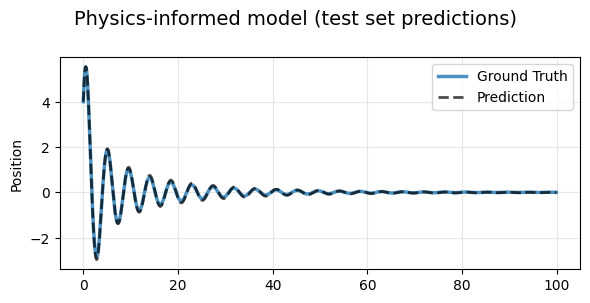
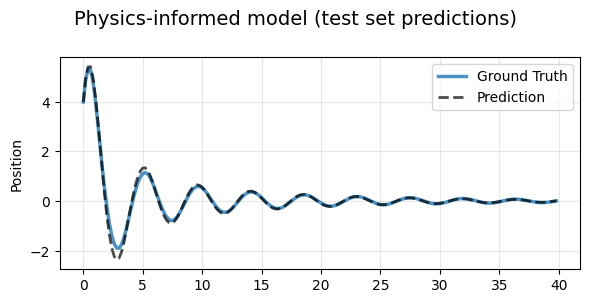
update figures and readme

diff --git a/utils.py b/utils.py
@@ -65,7 +65,7 @@ def generate_dissipative_pendulum_data(t_span=(0, 100), dt=0.1, spring_const=5.0
     return time, positions, velocities, accelerations
 
 
-def split_and_plot_dataset(data, train_frac=0.4, val_frac=None, show_plot=True):
+def split_and_plot_dataset(data, train_frac=0.4, val_frac=None, show_plot=True, filename=None):
     """
     Split t,x,v,a into train/val and plot the entire dataset with highlighted regions.
     
@@ -124,6 +124,8 @@ def split_and_plot_dataset(data, train_frac=0.4, val_frac=None, show_plot=True):
     axes.legend(handles=legend_handles, loc='upper right')
     axes.set_title('Training + validation data')
     plt.tight_layout()
+    if filename:
+        plt.savefig(filename)
     plt.show()
 
     return (train_x, train_v, train_a, train_t), (val_x, val_v, val_a, val_t)
@@ -172,8 +174,8 @@ def train_vector_field(
     data_train,
     data_val,
     device=None,
-    num_epochs=5000,
-    print_every=500,
+    num_epochs=500,
+    plot_every=10,
     lr=0.01,
     best_val=float("inf"),
     generate_gif=False,
@@ -188,7 +190,7 @@ def train_vector_field(
         data_val: Tuple of (val_x, val_v, val_a, val_t) validation data
         device: Torch device (default: 'cpu')
         num_epochs: Number of training epochs (default: 5000)
-        print_every: Frequency of printing/plotting progress (default: 500)
+        plot_every: Frequency of printing/plotting progress (default: 500)
         lr: Learning rate (default: 0.01)
         best_val: Initial best validation loss (default: inf)
         generate_gif: Whether to save training progress as animated GIF (default: False)
@@ -263,7 +265,7 @@ def train_vector_field(
                     best_state = copy.deepcopy(model.state_dict())
             
             # Print and plot progress
-            if (epoch + 1) % print_every == 0:
+            if (epoch + 1) % plot_every == 0:
                 title = f"Epoch [{epoch + 1}/{num_epochs}] | Train Loss: {loss.item():.2e} | Val Loss: {val_loss.item():.2e}"
                 clear_output(wait=True)
                 

diff --git a/README.md b/README.md
@@ -1,29 +1,7 @@
-# Results: Training Progress and Model Comparison
+# Physics informed neural ODE demonstration
 
-You can run this notebook on Google collab by pressing this link: [tinyurl.com/blues-ai-workshop](https://tinyurl.com/blues-ai-workshop)
+## You can run this notebook on Google collab by pressing this link: [tinyurl.com/blues-ai-workshop](https://tinyurl.com/blues-ai-workshop)
 
-Below are animated GIFs showing the training loss curves and validation predictions for:
-
-**Vanilla Neural ODE model (no physics):**
-<p align="center">
-	<img src="figs/training_progress_vanilla.gif" alt="Vanilla Model Training" width="62%">
-	<img src="figs/vanilla_model_test_set_predictions.png" alt="Vanilla Model Training" width="36%">
-</p>
- 
-**Physics-Informed Neural ODE model:**
-<p align="center">
-	<img src="figs/training_progress_physics.gif" alt="Physics-Informed Model Training" width="62%">
-	<img src="figs/physics_model_test_set_predictions.png" alt="Physics-Informed Model Training" width="36%">
-</p>
-
-
-Notice how the physics model achieves lower validation error and more stable long-term predictions, even with limited data.
-
-# Physics-Informed Machine Learning: Learning Dynamical Systems
-
-Learn how to combine physical knowledge with machine learning to estimate system parameters and predict dynamics from sparse data.
-
-## Quick Start
 
 ### Main Notebook
 **`physics_informed_ode.ipynb`** — Complete pedagogical walkthrough demonstrating:
@@ -31,24 +9,7 @@ Learn how to combine physical knowledge with machine learning to estimate system
 - **Physics-Informed Model**: Decomposes acceleration into known physics + learned residuals
 - **Parameter Recovery**: Estimates spring constant $K$ and damping coefficient $C_0$ from data
 
-### Core Idea
-
-Instead of learning the full acceleration $\ddot{x} = f(x, \dot{x})$ with a neural network, we use physics:
-
-$$\ddot{x} = \underbrace{-Kx - C_0\dot{x}}_{\text{Known Physics}} + \underbrace{f(\dot{x})}_{\text{Learned Residual}}$$
-
-This structure dramatically improves:
-- **Data efficiency**: Fewer parameters to learn
-- **Interpretability**: $K$ and $C_0$ have physical meaning
-- **Generalization**: Physics constraints stabilize long-term predictions
-
-## Key Files
-
-- **`physics_informed_ode.ipynb`** — Tutorial notebook (start here)
-- **`models.py`** — Model definitions (`VanillaModel`, `PhysicsInformedModel`)
-- **`utils.py`** — Training loops and visualization utilities
-
-## Installation
+### Installation
 
 ```bash
 pip install -r requirements.txt
@@ -59,8 +20,42 @@ Run the notebook in Jupyter:
 jupyter notebook physics_informed_ode.ipynb
 ```
 
-## Learning Objectives
+## Problem:  
+We have a data set that describes dampened oscillations with a nonlinear drag term, such as a mass-spring system in water. The data consists of acceleration, velocity and position measurements for one initial condition: $\{\ddot{x}(t_i), \dot{x}(t_i), x(t_i)\}_{i=1}^N$ and is plotted below.
+<p align="center">
+	<img src="figs/figure.png" alt="Vanilla Model Training" width="20%">
+	<img src="figs/dataset.png" alt="Vanilla Model Training" width="46%">
+</p>
 
-- Understand when and why physics-informed learning outperforms pure data-driven approaches
-- Apply this framework to your own dynamical systems (ODEs, PDEs, control systems, etc.)
-- Recover unknown physical parameters from experimental data
+
+## Method 1: Vanilla Neural ODE model (no physics):
+We can model the equation by assuming no physics, and fit a neural network to a generic second order equation 
+$$\ddot{x} = f{^\theta}(x, \dot{x}).$$
+We will call this the "vanilla neural ODE".
+
+## Method 2: Physics-informed Neural ODE model:
+We can assume that the governing ordinary differential equation (ODE) is of the (still rather general) form 
+$$\ddot{x} = k^\theta x + F^\theta(\dot{x}),$$
+where $F^\theta$ is some unknown drag force, and $k^\theta$ is a spring constant that we can learn from the data. As $F^\theta$ and $k^\theta$ are unknown, we can fit them from the data using a neural network for $F$ and a learnable parameter for $k$. This yields the physics-informed model. 
+
+
+## Training the neural networks
+We optimise the parameters of the neural networks on the loss function 
+$$L_{vanil.} = \sum_i \| \ddot{x}-f{^\theta}(x, \dot{x}) \|^2,$$
+for all the $\{\ddot{x}(t_i), \dot{x}(t_i), x(t_i)\}_{i=1}^N$ in the training data. For the physics-informed model we use: 
+$$L_{phys} = \sum_i \| \ddot{x}-k^\theta x - F^\theta(\dot{x}) \|^2,$$
+
+Below are animated GIFs showing the training loss curves and validation predictions:
+### Vanilla Neural ODE model (no physics):
+<p align="center">
+	<img src="figs/training_progress_vanilla.gif" alt="Vanilla Model Training" width="62%">
+	<img src="figs/vanilla_model_test_set_predictions.png" alt="Vanilla Model Training" width="36%">
+</p>
+ 
+### Physics-Informed Neural ODE model:
+<p align="center">
+	<img src="figs/training_progress_physics.gif" alt="Physics-Informed Model Training" width="62%">
+	<img src="figs/physics_model_test_set_predictions.png" alt="Physics-Informed Model Training" width="36%">
+</p>
+
+Notice how the physics model achieves lower validation error and more accurate generalisation, even with limited data.
